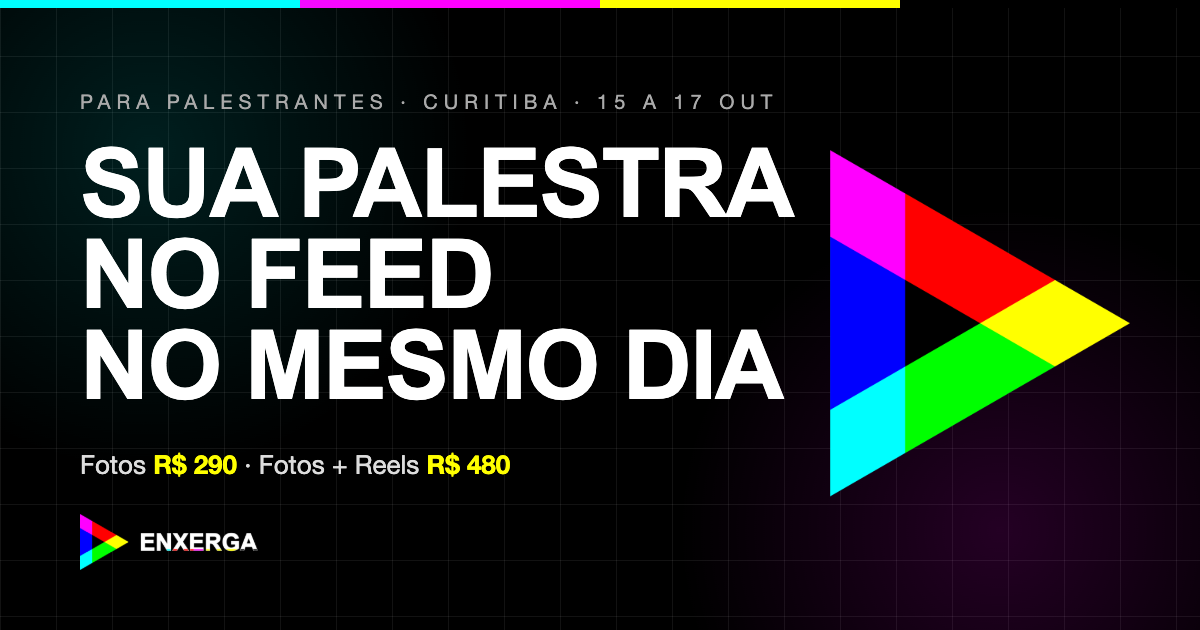
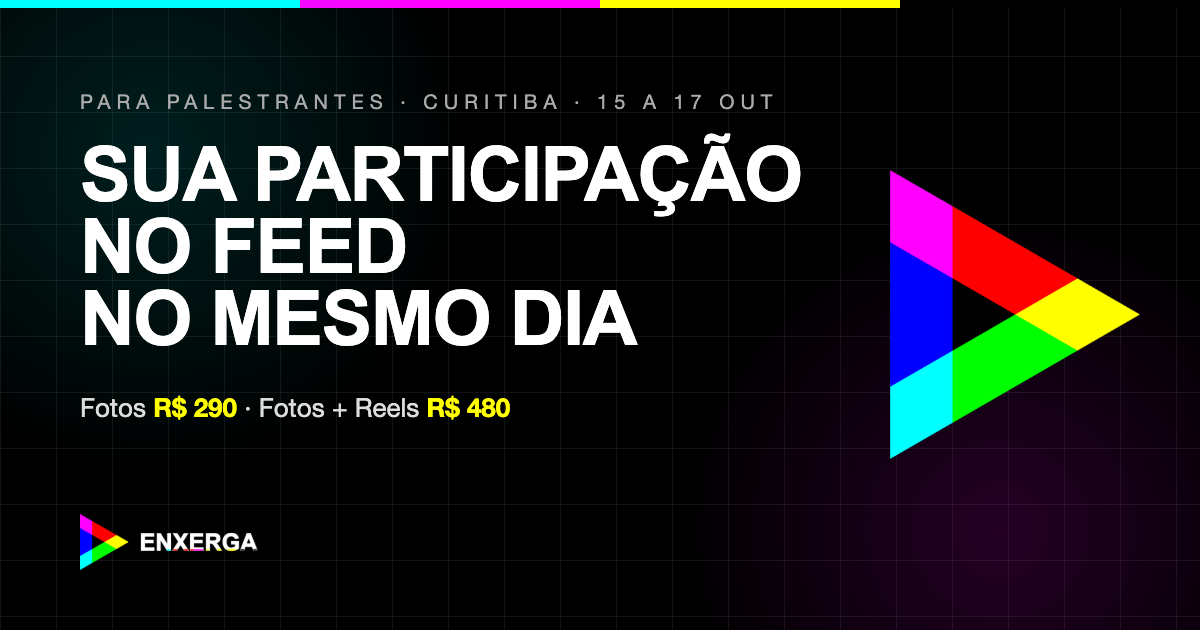
feat: hero limpo, título com participação e adicional em destaque

diff --git a/assets/css/style.css b/assets/css/style.css
@@ -124,17 +124,19 @@ a { color: inherit; }
 .hero {
   position: relative;
   overflow: hidden;
+  min-height: 100svh;
+  display: flex;
+  align-items: center;
   padding: calc(var(--nav-h) + var(--space-5)) 0 var(--space-5);
 }
+.hero > .wrap { width: 100%; }
 .glow { position: absolute; border-radius: 50%; pointer-events: none; }
 .glow-cyan { top: -20%; left: -20%; width: 700px; height: 700px; background: radial-gradient(circle, rgba(0,255,255,0.08) 0%, transparent 65%); }
 .glow-magenta { top: 25%; right: -20%; width: 600px; height: 600px; background: radial-gradient(circle, rgba(255,0,255,0.07) 0%, transparent 65%); }
 
 .hero-grid { position: relative; display: grid; grid-template-columns: 1fr; gap: var(--space-4); align-items: center; }
-.hero-label { max-width: 34em; }
-.hero-title { font-size: clamp(34px, 11vw, 88px); white-space: nowrap; margin-bottom: var(--space-3); }
+.hero-title { font-size: clamp(34px, 10.5vw, 84px); margin-bottom: var(--space-4); }
 .hero-title span { display: block; }
-.lead { font-size: 17px; color: var(--text-2); font-weight: 400; max-width: 30em; margin-bottom: var(--space-4); }
 
 .hero-visual { display: none; position: relative; justify-content: center; align-items: center; }
 .hero-orb {
@@ -142,22 +144,6 @@ a { color: inherit; }
   background: radial-gradient(circle, rgba(255,0,255,0.14) 0%, rgba(0,255,255,0.08) 45%, transparent 70%);
 }
 .hero-visual img { position: relative; width: 340px; filter: drop-shadow(0 0 40px rgba(0,255,255,0.15)); }
-
-/* Linha do dia — a brand bar como linha do tempo */
-.day-line {
-  position: relative;
-  display: grid;
-  grid-template-columns: 1fr;
-  margin-top: var(--space-5);
-  border-top: 1px solid var(--line);
-}
-.day-step { position: relative; padding: var(--space-3) 0 var(--space-2) 0; border-bottom: 1px solid var(--line); }
-.day-step::before { content: ""; position: absolute; top: -1px; left: 0; height: 3px; width: 56px; background: var(--c); }
-.day-cyan { --c: var(--cyan); }
-.day-magenta { --c: var(--magenta); }
-.day-yellow { --c: var(--yellow); }
-.day-time { display: block; font-size: 11px; letter-spacing: 0.3em; text-transform: uppercase; color: var(--c); font-weight: 400; }
-.day-what { display: block; font-family: var(--font-head); font-weight: 900; text-transform: uppercase; font-size: 22px; letter-spacing: -0.01em; line-height: 1.2; margin-top: 6px; }
 
 /* ── Seções ── */
 .section { position: relative; padding: var(--space-6) 0 0; }
@@ -195,15 +181,24 @@ a { color: inherit; }
 .plan-list li::before { content: ""; position: absolute; left: 0; top: 20px; width: 8px; height: 8px; background: var(--c); }
 
 .addon {
-  display: flex; flex-direction: column; gap: var(--space-2);
+  --c: var(--yellow);
+  position: relative;
+  display: flex; flex-direction: column; gap: var(--space-3);
   margin-top: var(--space-3);
-  padding: var(--space-3);
-  border: 1px dashed rgba(255, 255, 0, 0.45);
-  background: rgba(255, 255, 0, 0.03);
+  padding: var(--space-4) var(--space-3);
+  border: 1px solid rgba(255, 255, 0, 0.35);
+  border-top: 3px solid var(--yellow);
+  background:
+    radial-gradient(120% 140% at 100% 0%, rgba(255, 255, 0, 0.12) 0%, transparent 55%),
+    var(--surface);
+  box-shadow: 0 30px 80px -40px rgba(255, 255, 0, 0.35);
 }
-.addon-name { font-family: var(--font-head); font-weight: 900; text-transform: uppercase; font-size: 16px; letter-spacing: 0.02em; margin-bottom: 4px; }
-.addon-text p:last-child { color: var(--text-2); font-size: 15px; font-weight: 400; }
-.addon-price { font-family: var(--font-head); font-weight: 900; font-size: 36px; line-height: 1; color: var(--yellow); white-space: nowrap; }
+.addon-tag { font-size: 12px; letter-spacing: 0.3em; text-transform: uppercase; color: var(--yellow); font-weight: 400; margin-bottom: var(--space-1); }
+.addon-name { font-size: clamp(26px, 5vw, 40px); margin-bottom: var(--space-2); }
+.addon-desc { color: #d6d6d6; font-size: 16px; font-weight: 400; max-width: 30em; }
+.addon-price { font-family: var(--font-head); font-weight: 900; font-size: 72px; line-height: 1; letter-spacing: -0.03em; color: var(--yellow); white-space: nowrap; }
+.addon-price .plus { margin-right: 6px; }
+.addon-price .cur { font-size: 22px; letter-spacing: 0; vertical-align: 0.9em; margin-right: 6px; color: var(--white); }
 
 .note { margin-top: var(--space-3); font-size: 14px; color: var(--text-2); font-weight: 400; padding-left: var(--space-2); border-left: 3px solid var(--yellow); }
 
@@ -213,8 +208,7 @@ a { color: inherit; }
 .about-photo::after { content: ""; position: absolute; inset: 0; background: linear-gradient(to top, rgba(0,0,0,0.6) 0%, transparent 50%); }
 .about-photo::before { content: ""; position: absolute; inset: 14px -14px -14px 14px; border: 1px solid var(--magenta); opacity: 0.5; }
 .about-photo img { position: relative; width: 100%; filter: grayscale(15%); }
-.about-name { font-size: 13px; letter-spacing: 0.25em; text-transform: uppercase; color: var(--cyan); margin-bottom: var(--space-2); font-weight: 400; }
-.about-text { color: var(--text-2); font-size: 16px; font-weight: 400; max-width: 34em; margin-bottom: var(--space-4); }
+.about-name { font-size: 13px; letter-spacing: 0.25em; text-transform: uppercase; color: var(--cyan); margin-bottom: var(--space-4); font-weight: 400; }
 .portfolio { display: grid; grid-template-columns: repeat(3, 1fr); gap: var(--space-1); margin-bottom: var(--space-3); max-width: 420px; }
 .portfolio img { width: 100%; aspect-ratio: 2 / 3; object-fit: cover; }
 
@@ -230,17 +224,15 @@ a { color: inherit; }
 /* ── Tablet+ ── */
 @media (min-width: 720px) {
   .wrap { padding: 0 var(--space-4); }
-  .day-line { grid-template-columns: repeat(3, 1fr); border-bottom: 1px solid var(--line); }
-  .day-step { border-bottom: 0; padding-right: var(--space-3); }
   .steps { grid-template-columns: repeat(3, 1fr); }
   .plans { grid-template-columns: repeat(2, 1fr); }
-  .addon { flex-direction: row; align-items: center; justify-content: space-between; padding: var(--space-3) var(--space-4); }
+  .addon { flex-direction: row; align-items: center; justify-content: space-between; padding: var(--space-4); }
 }
 
 /* ── Desktop ── */
 @media (min-width: 1000px) {
   .hero { padding-top: calc(var(--nav-h) + var(--space-6)); }
-  .hero-grid { grid-template-columns: 1.5fr 1fr; }
+  .hero-grid { grid-template-columns: 1.6fr 1fr; }
   .hero-visual { display: flex; }
   .about { grid-template-columns: 380px 1fr; gap: var(--space-6); }
   .footer-inner { flex-direction: row; align-items: center; justify-content: space-between; }
@@ -251,13 +243,8 @@ a { color: inherit; }
   .hero-title span { opacity: 0; transform: translateY(24px); animation: rise 0.8s var(--ease) forwards; }
   .hero-title span:nth-child(2) { animation-delay: 0.1s; }
   .hero-title span:nth-child(3) { animation-delay: 0.2s; }
-  .day-step::before { transform: scaleX(0); transform-origin: left; animation: grow 0.6s var(--ease) forwards; }
-  .day-cyan::before { animation-delay: 0.5s; }
-  .day-magenta::before { animation-delay: 0.7s; }
-  .day-yellow::before { animation-delay: 0.9s; }
 }
 @keyframes rise { to { opacity: 1; transform: none; } }
-@keyframes grow { to { transform: scaleX(1); } }
 
 @media (prefers-reduced-motion: reduce) {
   html { scroll-behavior: auto; }

diff --git a/index.html b/index.html
@@ -4,10 +4,10 @@
   <meta charset="UTF-8">
   <meta name="viewport" content="width=device-width, initial-scale=1.0">
   <title>Enxerga · Cobertura para palestrantes do congresso</title>
-  <meta name="description" content="Fotos e Reels profissionais da sua palestra no Congresso de Imagem Cardiovascular, em Curitiba, entregues no mesmo dia.">
+  <meta name="description" content="Fotos e Reels profissionais da sua participação no Congresso de Imagem Cardiovascular, em Curitiba, entregues no mesmo dia.">
   <meta property="og:type" content="website">
   <meta property="og:url" content="https://congresso.enxerga.net/">
-  <meta property="og:title" content="Sua palestra no feed no mesmo dia · Enxerga">
+  <meta property="og:title" content="Sua participação no feed no mesmo dia · Enxerga">
   <meta property="og:description" content="Fotos e Reels profissionais da sua participação no congresso, em Curitiba, de 15 a 17 de outubro. Entrega no mesmo dia.">
   <meta property="og:image" content="https://congresso.enxerga.net/assets/images/og-image.png">
   <meta property="og:image:width" content="1200">
@@ -39,14 +39,12 @@
       <div class="glow glow-magenta" aria-hidden="true"></div>
       <div class="wrap hero-grid">
         <div>
-          <p class="f-label hero-label">Para palestrantes · Congresso de Imagem Cardiovascular · Curitiba, 15 a 17 de outubro</p>
           <h1 class="f-head hero-title">
-            <span>Sua palestra</span>
+            <span>Sua participação</span>
             <span>no feed</span>
             <span>no mesmo dia</span>
           </h1>
-          <p class="lead">Fotos e vídeo profissionais da sua participação no congresso, editados e entregues no mesmo dia, prontos para publicar.</p>
-          <a href="#pacotes" class="btn">Ver pacotes</a>
+          <a href="#pacotes" class="btn">Ver pacotes – Congresso do DIC</a>
         </div>
         <div class="hero-visual" aria-hidden="true">
           <div class="hero-orb"></div>
@@ -54,14 +52,6 @@
         </div>
       </div>
 
-      <!-- Linha do dia: o diferencial em uma imagem -->
-      <div class="wrap">
-        <ol class="day-line" aria-label="O seu dia no congresso">
-          <li class="day-step day-cyan"><span class="day-time">No palco</span><span class="day-what">Você apresenta</span></li>
-          <li class="day-step day-magenta"><span class="day-time">Na edição</span><span class="day-what">Eu edito</span></li>
-          <li class="day-step day-yellow"><span class="day-time">No seu feed</span><span class="day-what">Você publica no mesmo dia</span></li>
-        </ol>
-      </div>
     </section>
 
     <!-- COMO FUNCIONA -->
@@ -94,7 +84,7 @@
       <div class="wrap">
         <p class="f-label">Pacotes</p>
         <h2 class="f-head section-title">Cobertura do evento por participante</h2>
-        <p class="section-sub">Os três dias de congresso, 15 a 17 de outubro. Tudo entregue no mesmo dia.</p>
+        <p class="section-sub">Os três dias de congresso, 15 a 17 de outubro.</p>
 
         <div class="plans">
           <article class="plan" style="--c: var(--cyan)">
@@ -123,13 +113,15 @@
           </article>
         </div>
 
-        <div class="addon">
-          <div class="addon-text">
-            <p class="addon-name">Adicional: carrossel para Instagram</p>
-            <p>Montado com as suas fotos, pronto para postar. Vale para os dois pacotes.</p>
+        <aside class="addon" aria-label="Adicional">
+          <div class="addon-main">
+            <div class="bars" aria-hidden="true"><i></i><i></i><i></i></div>
+            <p class="addon-tag">Adicional para qualquer pacote</p>
+            <h3 class="f-head addon-name">Carrossel para Instagram</h3>
+            <p class="addon-desc">Montado com as suas fotos, pronto para postar e entregue no mesmo dia.</p>
           </div>
-          <p class="addon-price">+ R$ 90</p>
-        </div>
+          <p class="addon-price"><span class="plus">+</span><span class="cur">R$</span>90</p>
+        </aside>
 
         <p class="note">Reserva por ordem de contato, conforme o horário da sua palestra.</p>
       </div>
@@ -145,7 +137,6 @@
           <p class="f-label">Quem faz</p>
           <h2 class="f-head section-title">Médico, fotógrafo e videógrafo</h2>
           <p class="about-name">Lucas Olandoski Erbano</p>
-          <p class="about-text">Sei o que vale registrar numa palestra científica: o slide certo, o gesto de explicação, a plateia atenta. Falo a mesma língua que você, então o material sai tecnicamente correto e pronto para mostrar sua autoridade.</p>
           <ul class="portfolio" aria-label="Trabalhos da Enxerga">
             <li><img src="assets/images/portfolio-1.jpg" alt="Retrato profissional de médica" width="253" height="380" loading="lazy"></li>
             <li><img src="assets/images/portfolio-2.jpg" alt="Ensaio profissional de médica" width="253" height="380" loading="lazy"></li>
